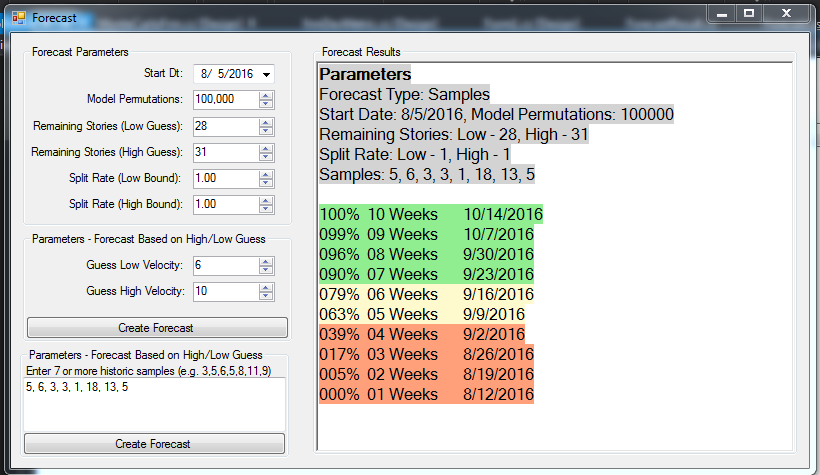
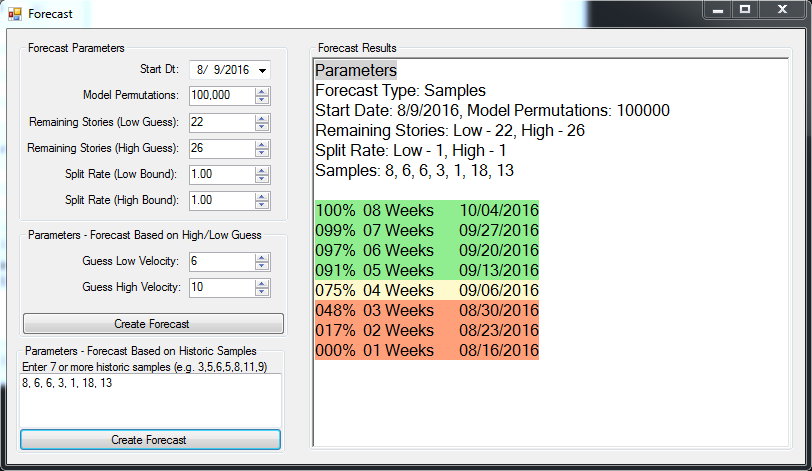
correct label on WinForms app - pb

diff --git a/MonteCarloForecastWin/frmMain.Designer.cs b/MonteCarloForecastWin/frmMain.Designer.cs
@@ -30,37 +30,37 @@
         {
             this.groupBox1 = new System.Windows.Forms.GroupBox();
             this.label8 = new System.Windows.Forms.Label();
+            this.dtStartDt = new System.Windows.Forms.DateTimePicker();
+            this.label2 = new System.Windows.Forms.Label();
             this.label9 = new System.Windows.Forms.Label();
+            this.numPermutations = new System.Windows.Forms.NumericUpDown();
+            this.numRemainingLowGuess = new System.Windows.Forms.NumericUpDown();
             this.numSplitRateHigh = new System.Windows.Forms.NumericUpDown();
+            this.numRemainingHighGuess = new System.Windows.Forms.NumericUpDown();
             this.numSplitRateLow = new System.Windows.Forms.NumericUpDown();
+            this.label1 = new System.Windows.Forms.Label();
+            this.label3 = new System.Windows.Forms.Label();
+            this.label4 = new System.Windows.Forms.Label();
             this.label6 = new System.Windows.Forms.Label();
             this.label5 = new System.Windows.Forms.Label();
-            this.label4 = new System.Windows.Forms.Label();
-            this.label3 = new System.Windows.Forms.Label();
-            this.label2 = new System.Windows.Forms.Label();
-            this.label1 = new System.Windows.Forms.Label();
-            this.numPermutations = new System.Windows.Forms.NumericUpDown();
             this.numLowVelocityGuess = new System.Windows.Forms.NumericUpDown();
             this.numHighVelocityGuess = new System.Windows.Forms.NumericUpDown();
-            this.numRemainingHighGuess = new System.Windows.Forms.NumericUpDown();
-            this.numRemainingLowGuess = new System.Windows.Forms.NumericUpDown();
-            this.dtStartDt = new System.Windows.Forms.DateTimePicker();
             this.groupBox2 = new System.Windows.Forms.GroupBox();
             this.cmdHighLowGuessForecast = new System.Windows.Forms.Button();
             this.groupBox3 = new System.Windows.Forms.GroupBox();
+            this.txtSamples = new System.Windows.Forms.TextBox();
             this.cmdSamplesForecast = new System.Windows.Forms.Button();
             this.label7 = new System.Windows.Forms.Label();
-            this.txtSamples = new System.Windows.Forms.TextBox();
             this.groupBox4 = new System.Windows.Forms.GroupBox();
             this.rtbResults = new System.Windows.Forms.RichTextBox();
             this.groupBox1.SuspendLayout();
-            ((System.ComponentModel.ISupportInitialize)(this.numSplitRateHigh)).BeginInit();
-            ((System.ComponentModel.ISupportInitialize)(this.numSplitRateLow)).BeginInit();
             ((System.ComponentModel.ISupportInitialize)(this.numPermutations)).BeginInit();
+            ((System.ComponentModel.ISupportInitialize)(this.numRemainingLowGuess)).BeginInit();
+            ((System.ComponentModel.ISupportInitialize)(this.numSplitRateHigh)).BeginInit();
+            ((System.ComponentModel.ISupportInitialize)(this.numRemainingHighGuess)).BeginInit();
+            ((System.ComponentModel.ISupportInitialize)(this.numSplitRateLow)).BeginInit();
             ((System.ComponentModel.ISupportInitialize)(this.numLowVelocityGuess)).BeginInit();
             ((System.ComponentModel.ISupportInitialize)(this.numHighVelocityGuess)).BeginInit();
-            ((System.ComponentModel.ISupportInitialize)(this.numRemainingHighGuess)).BeginInit();
-            ((System.ComponentModel.ISupportInitialize)(this.numRemainingLowGuess)).BeginInit();
             this.groupBox2.SuspendLayout();
             this.groupBox3.SuspendLayout();
             this.groupBox4.SuspendLayout();
@@ -96,96 +96,13 @@
             this.label8.TabIndex = 36;
             this.label8.Text = "Split Rate (High Bound):";
             // 
-            // label9
+            // dtStartDt
             // 
-            this.label9.AutoSize = true;
-            this.label9.Location = new System.Drawing.Point(43, 126);
-            this.label9.Name = "label9";
-            this.label9.Size = new System.Drawing.Size(119, 13);
-            this.label9.TabIndex = 35;
-            this.label9.Text = "Split Rate (Low Bound):";
-            // 
-            // numSplitRateHigh
-            // 
-            this.numSplitRateHigh.DecimalPlaces = 2;
-            this.numSplitRateHigh.Location = new System.Drawing.Point(170, 150);
-            this.numSplitRateHigh.Maximum = new decimal(new int[] {
-            10,
-            0,
-            0,
-            0});
-            this.numSplitRateHigh.Minimum = new decimal(new int[] {
-            1,
-            0,
-            0,
-            0});
-            this.numSplitRateHigh.Name = "numSplitRateHigh";
-            this.numSplitRateHigh.Size = new System.Drawing.Size(82, 20);
-            this.numSplitRateHigh.TabIndex = 34;
-            this.numSplitRateHigh.Value = new decimal(new int[] {
-            1,
-            0,
-            0,
-            0});
-            // 
-            // numSplitRateLow
-            // 
-            this.numSplitRateLow.DecimalPlaces = 2;
-            this.numSplitRateLow.Location = new System.Drawing.Point(170, 124);
-            this.numSplitRateLow.Maximum = new decimal(new int[] {
-            10,
-            0,
-            0,
-            0});
-            this.numSplitRateLow.Minimum = new decimal(new int[] {
-            1,
-            0,
-            0,
-            0});
-            this.numSplitRateLow.Name = "numSplitRateLow";
-            this.numSplitRateLow.Size = new System.Drawing.Size(82, 20);
-            this.numSplitRateLow.TabIndex = 33;
-            this.numSplitRateLow.Value = new decimal(new int[] {
-            1,
-            0,
-            0,
-            0});
-            // 
-            // label6
-            // 
-            this.label6.AutoSize = true;
-            this.label6.Location = new System.Drawing.Point(61, 52);
-            this.label6.Name = "label6";
-            this.label6.Size = new System.Drawing.Size(105, 13);
-            this.label6.TabIndex = 32;
-            this.label6.Text = "Guess High Velocity:";
-            // 
-            // label5
-            // 
-            this.label5.AutoSize = true;
-            this.label5.Location = new System.Drawing.Point(61, 26);
-            this.label5.Name = "label5";
-            this.label5.Size = new System.Drawing.Size(103, 13);
-            this.label5.TabIndex = 31;
-            this.label5.Text = "Guess Low Velocity:";
-            // 
-            // label4
-            // 
-            this.label4.AutoSize = true;
-            this.label4.Location = new System.Drawing.Point(5, 100);
-            this.label4.Name = "label4";
-            this.label4.Size = new System.Drawing.Size(159, 13);
-            this.label4.TabIndex = 30;
-            this.label4.Text = "Remaining Stories (High Guess):";
-            // 
-            // label3
-            // 
-            this.label3.AutoSize = true;
-            this.label3.Location = new System.Drawing.Point(7, 74);
-            this.label3.Name = "label3";
-            this.label3.Size = new System.Drawing.Size(157, 13);
-            this.label3.TabIndex = 29;
-            this.label3.Text = "Remaining Stories (Low Guess):";
+            this.dtStartDt.Format = System.Windows.Forms.DateTimePickerFormat.Short;
+            this.dtStartDt.Location = new System.Drawing.Point(170, 19);
+            this.dtStartDt.Name = "dtStartDt";
+            this.dtStartDt.Size = new System.Drawing.Size(82, 20);
+            this.dtStartDt.TabIndex = 21;
             // 
             // label2
             // 
@@ -196,14 +113,14 @@
             this.label2.TabIndex = 28;
             this.label2.Text = "Model Permutations:";
             // 
-            // label1
+            // label9
             // 
-            this.label1.AutoSize = true;
-            this.label1.Location = new System.Drawing.Point(118, 21);
-            this.label1.Name = "label1";
-            this.label1.Size = new System.Drawing.Size(46, 13);
-            this.label1.TabIndex = 27;
-            this.label1.Text = "Start Dt:";
+            this.label9.AutoSize = true;
+            this.label9.Location = new System.Drawing.Point(43, 126);
+            this.label9.Name = "label9";
+            this.label9.Size = new System.Drawing.Size(119, 13);
+            this.label9.TabIndex = 35;
+            this.label9.Text = "Split Rate (Low Bound):";
             // 
             // numPermutations
             // 
@@ -228,6 +145,111 @@
             0,
             0});
             // 
+            // numRemainingLowGuess
+            // 
+            this.numRemainingLowGuess.Location = new System.Drawing.Point(170, 72);
+            this.numRemainingLowGuess.Name = "numRemainingLowGuess";
+            this.numRemainingLowGuess.Size = new System.Drawing.Size(82, 20);
+            this.numRemainingLowGuess.TabIndex = 22;
+            // 
+            // numSplitRateHigh
+            // 
+            this.numSplitRateHigh.DecimalPlaces = 2;
+            this.numSplitRateHigh.Location = new System.Drawing.Point(170, 150);
+            this.numSplitRateHigh.Maximum = new decimal(new int[] {
+            10,
+            0,
+            0,
+            0});
+            this.numSplitRateHigh.Minimum = new decimal(new int[] {
+            1,
+            0,
+            0,
+            0});
+            this.numSplitRateHigh.Name = "numSplitRateHigh";
+            this.numSplitRateHigh.Size = new System.Drawing.Size(82, 20);
+            this.numSplitRateHigh.TabIndex = 34;
+            this.numSplitRateHigh.Value = new decimal(new int[] {
+            1,
+            0,
+            0,
+            0});
+            // 
+            // numRemainingHighGuess
+            // 
+            this.numRemainingHighGuess.Location = new System.Drawing.Point(170, 98);
+            this.numRemainingHighGuess.Name = "numRemainingHighGuess";
+            this.numRemainingHighGuess.Size = new System.Drawing.Size(82, 20);
+            this.numRemainingHighGuess.TabIndex = 23;
+            // 
+            // numSplitRateLow
+            // 
+            this.numSplitRateLow.DecimalPlaces = 2;
+            this.numSplitRateLow.Location = new System.Drawing.Point(170, 124);
+            this.numSplitRateLow.Maximum = new decimal(new int[] {
+            10,
+            0,
+            0,
+            0});
+            this.numSplitRateLow.Minimum = new decimal(new int[] {
+            1,
+            0,
+            0,
+            0});
+            this.numSplitRateLow.Name = "numSplitRateLow";
+            this.numSplitRateLow.Size = new System.Drawing.Size(82, 20);
+            this.numSplitRateLow.TabIndex = 33;
+            this.numSplitRateLow.Value = new decimal(new int[] {
+            1,
+            0,
+            0,
+            0});
+            // 
+            // label1
+            // 
+            this.label1.AutoSize = true;
+            this.label1.Location = new System.Drawing.Point(118, 21);
+            this.label1.Name = "label1";
+            this.label1.Size = new System.Drawing.Size(46, 13);
+            this.label1.TabIndex = 27;
+            this.label1.Text = "Start Dt:";
+            // 
+            // label3
+            // 
+            this.label3.AutoSize = true;
+            this.label3.Location = new System.Drawing.Point(7, 74);
+            this.label3.Name = "label3";
+            this.label3.Size = new System.Drawing.Size(157, 13);
+            this.label3.TabIndex = 29;
+            this.label3.Text = "Remaining Stories (Low Guess):";
+            // 
+            // label4
+            // 
+            this.label4.AutoSize = true;
+            this.label4.Location = new System.Drawing.Point(5, 100);
+            this.label4.Name = "label4";
+            this.label4.Size = new System.Drawing.Size(159, 13);
+            this.label4.TabIndex = 30;
+            this.label4.Text = "Remaining Stories (High Guess):";
+            // 
+            // label6
+            // 
+            this.label6.AutoSize = true;
+            this.label6.Location = new System.Drawing.Point(61, 52);
+            this.label6.Name = "label6";
+            this.label6.Size = new System.Drawing.Size(105, 13);
+            this.label6.TabIndex = 32;
+            this.label6.Text = "Guess High Velocity:";
+            // 
+            // label5
+            // 
+            this.label5.AutoSize = true;
+            this.label5.Location = new System.Drawing.Point(61, 26);
+            this.label5.Name = "label5";
+            this.label5.Size = new System.Drawing.Size(103, 13);
+            this.label5.TabIndex = 31;
+            this.label5.Text = "Guess Low Velocity:";
+            // 
             // numLowVelocityGuess
             // 
             this.numLowVelocityGuess.Location = new System.Drawing.Point(170, 24);
@@ -251,28 +273,6 @@
             0,
             0,
             0});
-            // 
-            // numRemainingHighGuess
-            // 
-            this.numRemainingHighGuess.Location = new System.Drawing.Point(170, 98);
-            this.numRemainingHighGuess.Name = "numRemainingHighGuess";
-            this.numRemainingHighGuess.Size = new System.Drawing.Size(82, 20);
-            this.numRemainingHighGuess.TabIndex = 23;
-            // 
-            // numRemainingLowGuess
-            // 
-            this.numRemainingLowGuess.Location = new System.Drawing.Point(170, 72);
-            this.numRemainingLowGuess.Name = "numRemainingLowGuess";
-            this.numRemainingLowGuess.Size = new System.Drawing.Size(82, 20);
-            this.numRemainingLowGuess.TabIndex = 22;
-            // 
-            // dtStartDt
-            // 
-            this.dtStartDt.Format = System.Windows.Forms.DateTimePickerFormat.Short;
-            this.dtStartDt.Location = new System.Drawing.Point(170, 19);
-            this.dtStartDt.Name = "dtStartDt";
-            this.dtStartDt.Size = new System.Drawing.Size(82, 20);
-            this.dtStartDt.TabIndex = 21;
             // 
             // groupBox2
             // 
@@ -309,7 +309,16 @@
             this.groupBox3.Size = new System.Drawing.Size(269, 110);
             this.groupBox3.TabIndex = 34;
             this.groupBox3.TabStop = false;
-            this.groupBox3.Text = "Parameters - Forecast Based on High/Low Guess";
+            this.groupBox3.Text = "Parameters - Forecast Based on Historic Samples";
+            // 
+            // txtSamples
+            // 
+            this.txtSamples.Dock = System.Windows.Forms.DockStyle.Fill;
+            this.txtSamples.Location = new System.Drawing.Point(3, 29);
+            this.txtSamples.Multiline = true;
+            this.txtSamples.Name = "txtSamples";
+            this.txtSamples.Size = new System.Drawing.Size(263, 55);
+            this.txtSamples.TabIndex = 34;
             // 
             // cmdSamplesForecast
             // 
@@ -330,15 +339,6 @@
             this.label7.Size = new System.Drawing.Size(263, 13);
             this.label7.TabIndex = 32;
             this.label7.Text = "Enter 7 or more historic samples (e.g. 3,5,6,5,8,11,9)";
-            // 
-            // txtSamples
-            // 
-            this.txtSamples.Dock = System.Windows.Forms.DockStyle.Fill;
-            this.txtSamples.Location = new System.Drawing.Point(3, 29);
-            this.txtSamples.Multiline = true;
-            this.txtSamples.Name = "txtSamples";
-            this.txtSamples.Size = new System.Drawing.Size(263, 55);
-            this.txtSamples.TabIndex = 34;
             // 
             // groupBox4
             // 
@@ -373,13 +373,13 @@
             this.Text = "Forecast";
             this.groupBox1.ResumeLayout(false);
             this.groupBox1.PerformLayout();
-            ((System.ComponentModel.ISupportInitialize)(this.numSplitRateHigh)).EndInit();
-            ((System.ComponentModel.ISupportInitialize)(this.numSplitRateLow)).EndInit();
             ((System.ComponentModel.ISupportInitialize)(this.numPermutations)).EndInit();
+            ((System.ComponentModel.ISupportInitialize)(this.numRemainingLowGuess)).EndInit();
+            ((System.ComponentModel.ISupportInitialize)(this.numSplitRateHigh)).EndInit();
+            ((System.ComponentModel.ISupportInitialize)(this.numRemainingHighGuess)).EndInit();
+            ((System.ComponentModel.ISupportInitialize)(this.numSplitRateLow)).EndInit();
             ((System.ComponentModel.ISupportInitialize)(this.numLowVelocityGuess)).EndInit();
             ((System.ComponentModel.ISupportInitialize)(this.numHighVelocityGuess)).EndInit();
-            ((System.ComponentModel.ISupportInitialize)(this.numRemainingHighGuess)).EndInit();
-            ((System.ComponentModel.ISupportInitialize)(this.numRemainingLowGuess)).EndInit();
             this.groupBox2.ResumeLayout(false);
             this.groupBox2.PerformLayout();
             this.groupBox3.ResumeLayout(false);
